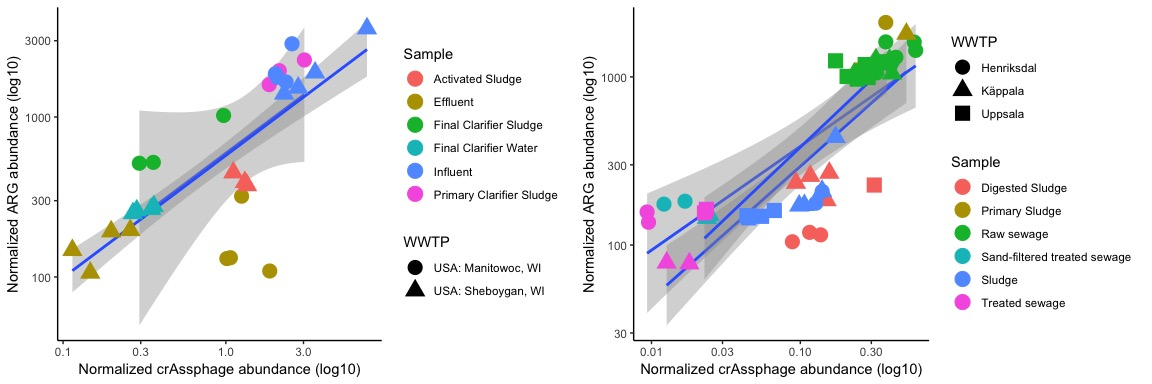
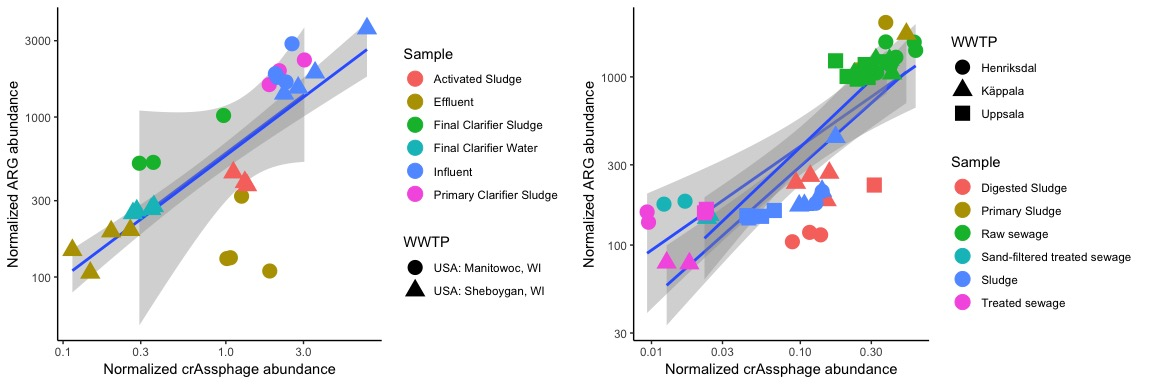
polishing

diff --git a/README.md b/README.md
@@ -25,8 +25,6 @@ crAssphage project
         -   [Supplementary Figure 7](#supplementary-figure-7)
 -   [References](#references)
 
-**The document is still under construction...**
-
 Background
 ==========
 
@@ -326,7 +324,7 @@ ggplot(MG_RAST_crass, aes(x=rel_crAss, y=rel_res, color=revised_source)) +
 Predicting antibiotic resistance gene abundance with crAssphage
 ---------------------------------------------------------------
 
-The results from the impacted environemnts were used to build a regression model and that model was used to predict the ARG abundance using the crAssphage abundance.
+The results from the impacted environemnts were used to build a regression model and that model was used to predict the ARG abundance using the crAssphage abundance. For the figure, see under [Supplementary figures.](#supplementary-figures)
 
 ``` r
 crass_df <- data.frame(crass=log10(crass_impact$rel_crAss), res=log10(crass_impact$rel_res))
@@ -513,7 +511,7 @@ p1 <- ggplot(crass_categ, aes(rel_crAss, rel_tet, color=country)) +
   geom_smooth(method="lm") + 
   geom_point(aes(shape=crAss_detection), size=5) + 
   scale_x_log10() + scale_y_log10() + 
-  labs(y = "Normalized ARG abundance (log10)", x="Normalized crAssphage abundance (log10)", 
+  labs(y = "Normalized ARG abundance", x="Normalized crAssphage abundance", 
        title="Tetracycline", shape="crAssphage detection") + 
   theme_classic()
 
@@ -522,7 +520,7 @@ p2 <- ggplot(crass_categ, aes(rel_crAss, rel_amino, color=country))  +
   geom_smooth(method="lm") + 
   geom_point(aes(shape=crAss_detection), size=5) + 
   scale_x_log10() + scale_y_log10() + 
-  labs(y = "Normalized ARG abundance (log10)", x="Normalized crAssphage abundance (log10)", 
+ labs(y = "Normalized ARG abundance", x="Normalized crAssphage abundance", 
        title="Aminoglycoside", shape="crAssphage detection") + 
   theme_classic()
 
@@ -530,7 +528,7 @@ p2 <- ggplot(crass_categ, aes(rel_crAss, rel_amino, color=country))  +
 p3 <- ggplot(crass_categ, aes(rel_crAss, rel_mls, color=country)) + 
   geom_smooth(method="lm") + geom_point(aes(shape=crAss_detection), size=5) + 
   scale_x_log10() + scale_y_log10() + 
-  labs(y = "Normalized ARG abundance (log10)", x="Normalized crAssphage abundance (log10)", 
+ labs(y = "Normalized ARG abundance", x="Normalized crAssphage abundance", 
            title="MLSB", shape="crAssphage detection") + 
   theme_classic()
 
@@ -538,7 +536,7 @@ p3 <- ggplot(crass_categ, aes(rel_crAss, rel_mls, color=country)) +
 p4 <- ggplot(crass_categ, aes(rel_crAss, rel_beta, color=country))  + 
   geom_smooth(method="lm") + geom_point(aes(shape=crAss_detection), size=5) + 
   scale_x_log10() + scale_y_log10() + 
-  labs(y = "Normalized ARG abundance (log10)", x="Normalized crAssphage abundance (log10)", 
+  labs(y = "Normalized ARG abundance", x="Normalized crAssphage abundance", 
            title="Beta-lactam", shape="crAssphage detection") + 
   theme_classic()
 
@@ -546,7 +544,7 @@ p4 <- ggplot(crass_categ, aes(rel_crAss, rel_beta, color=country))  +
 p5 <- ggplot(crass_categ, aes(rel_crAss, rel_tri, color=country))  + 
   geom_smooth(method="lm") + geom_point(aes(shape=crAss_detection), size=5) + 
   scale_x_log10() + scale_y_log10() + 
-  labs(y = "Normalized ARG abundance (log10)", x="Normalized crAssphage abundance (log10)", 
+  labs(y = "Normalized ARG abundance", x="Normalized crAssphage abundance", 
            title="Trimethoprim", shape="crAssphage detection") + 
   theme_classic()
 
@@ -554,7 +552,7 @@ p5 <- ggplot(crass_categ, aes(rel_crAss, rel_tri, color=country))  +
 p6 <- ggplot(crass_categ, aes(rel_crAss, rel_sul, color=country))  + 
   geom_smooth(method="lm") + geom_point(aes(shape=crAss_detection), size=5) + 
   scale_x_log10() + scale_y_log10() + 
-  labs(y = "Normalized ARG abundance (log10)", x="Normalized crAssphage abundance (log10)", 
+  labs(y = "Normalized ARG abundance", x="Normalized crAssphage abundance", 
            title="Sulphonamide", shape="crAssphage detection") + 
   theme_classic()
 
@@ -562,7 +560,7 @@ p6 <- ggplot(crass_categ, aes(rel_crAss, rel_sul, color=country))  +
 p7 <- ggplot(crass_categ, aes(rel_crAss, rel_van, color=country))  + 
   geom_smooth(method="lm") + geom_point(aes(shape=crAss_detection), size=5) + 
   scale_x_log10() + scale_y_log10() + 
-  labs(y = "Normalized ARG abundance (log10)", x="Normalized crAssphage abundance (log10)", 
+  labs(y = "Normalized ARG abundance", x="Normalized crAssphage abundance", 
            title="Vancomycin", shape="crAssphage detection") + 
   theme_classic()
 
@@ -570,7 +568,7 @@ p7 <- ggplot(crass_categ, aes(rel_crAss, rel_van, color=country))  +
 p8 <- ggplot(crass_categ, aes(rel_crAss, rel_clo, color=country))  + 
   geom_smooth(method="lm") + geom_point(aes(shape=crAss_detection), size=5) + 
   scale_x_log10() + scale_y_log10() + 
-  labs(y = "Normalized ARG abundance (log10)", x="Normalized crAssphage abundance (log10)", 
+  labs(y = "Normalized ARG abundance", x="Normalized crAssphage abundance", 
            title="Chloramphenicol", shape="crAssphage detection") + 
   theme_classic()
 
@@ -578,7 +576,7 @@ p8 <- ggplot(crass_categ, aes(rel_crAss, rel_clo, color=country))  +
 p9 <- ggplot(crass_categ, aes(rel_crAss, rel_qui, color=country))  +
   geom_smooth(method="lm") + geom_point(aes(shape=crAss_detection), size=5) + 
   scale_x_log10() + scale_y_log10() + 
-  labs(y = "Normalized ARG abundance (log10)", x="Normalized crAssphage abundance (log10)", 
+  labs(y = "Normalized ARG abundance", x="Normalized crAssphage abundance", 
            title="Quinolone", shape="crAssphage detection") + 
   theme_classic()
 
@@ -706,7 +704,7 @@ p1 <-  ggplot(us_wwtp, aes(rel_crAss, rel_res, shape=geo_loc_name)) +
   geom_smooth(method="lm") + 
   geom_point(aes(color=Sample_loc), size=5) + 
   scale_x_log10() + scale_y_log10() +
-  labs(y = "Normalized ARG abundance (log10)", x="Normalized crAssphage abundance (log10)") + 
+  labs(y = "Normalized ARG abundance", x="Normalized crAssphage abundance") + 
   theme_classic() +
   guides(shape=guide_legend(title="WWTP"), color=guide_legend(title="Sample"))
 
@@ -714,7 +712,7 @@ p2 <- ggplot(swe_wwtp, aes(rel_crAss, rel_res, shape=WWTP)) +
   geom_smooth(method="lm") + 
   geom_point(aes(color=Sample), size=5) + 
   scale_x_log10() + scale_y_log10() + 
-  labs(y = "Normalized ARG abundance (log10)", x="Normalized crAssphage abundance (log10)") + 
+  labs(y = "Normalized ARG abundance", x="Normalized crAssphage abundance") + 
   theme_classic() + 
   guides(shape=guide_legend(title="WWTP"), color=guide_legend(title="Sample"))
 
